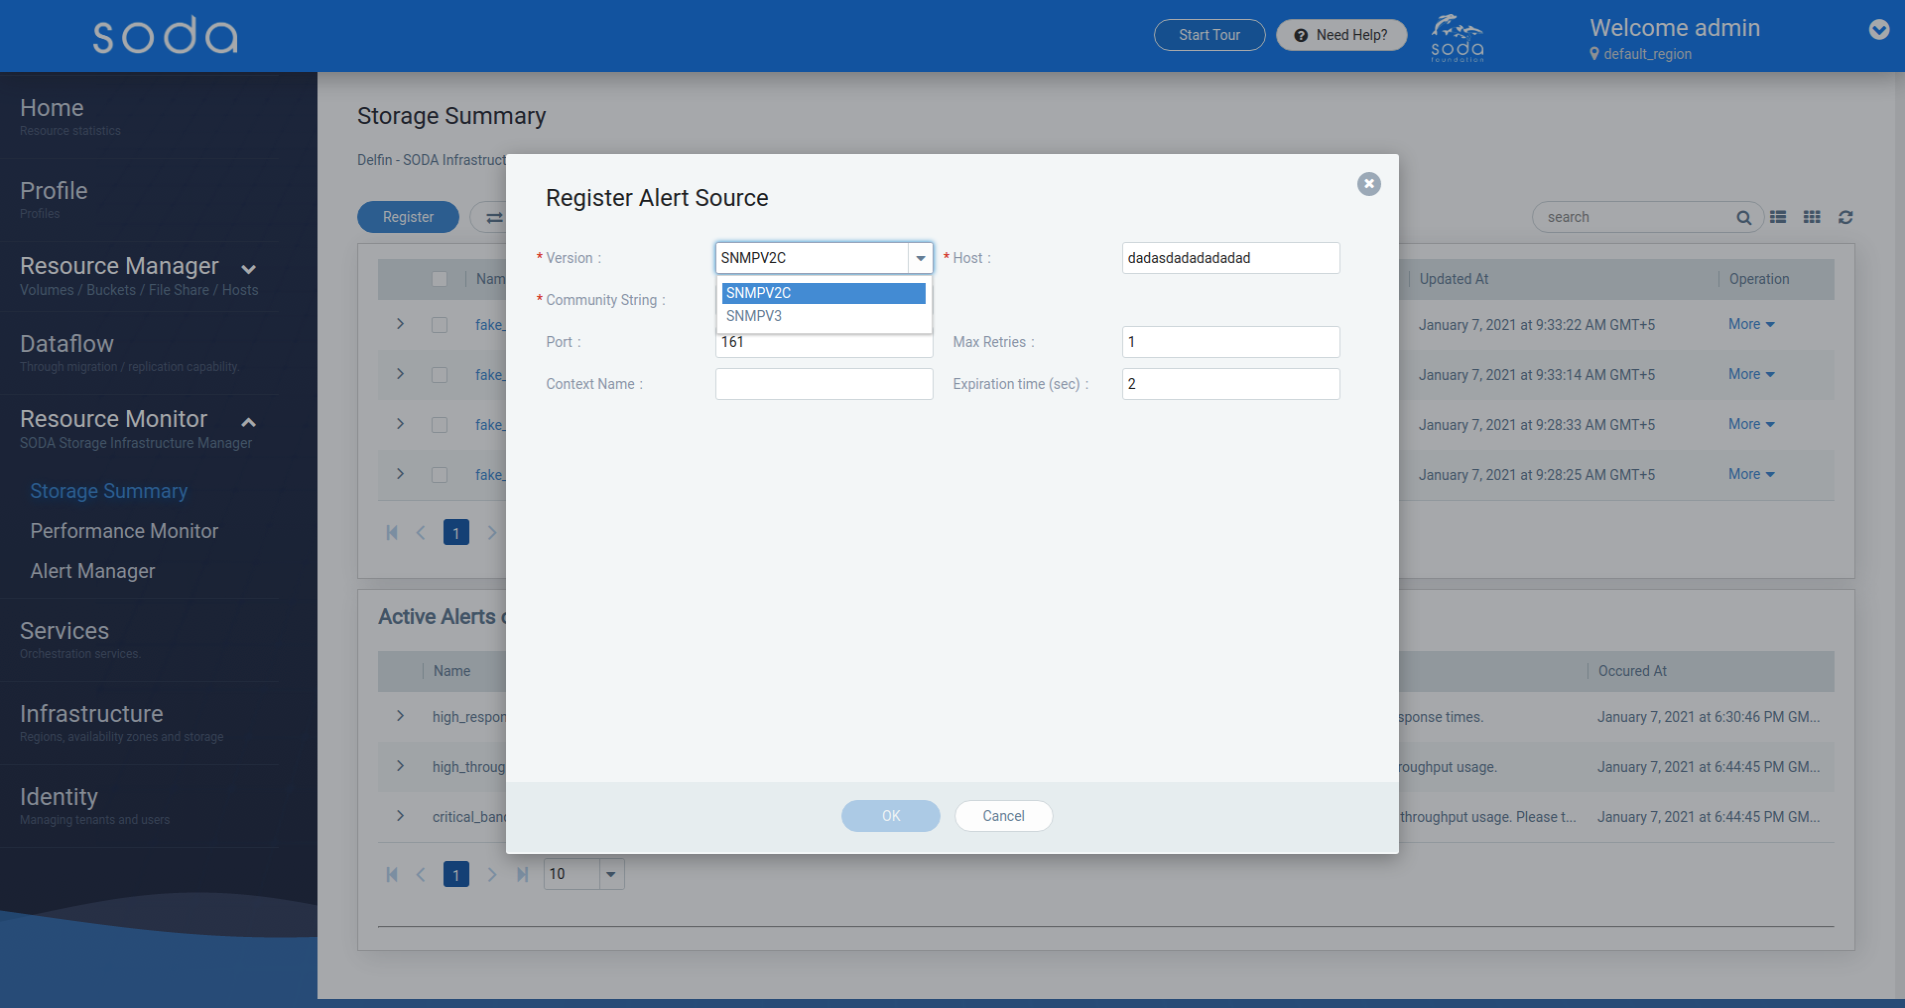
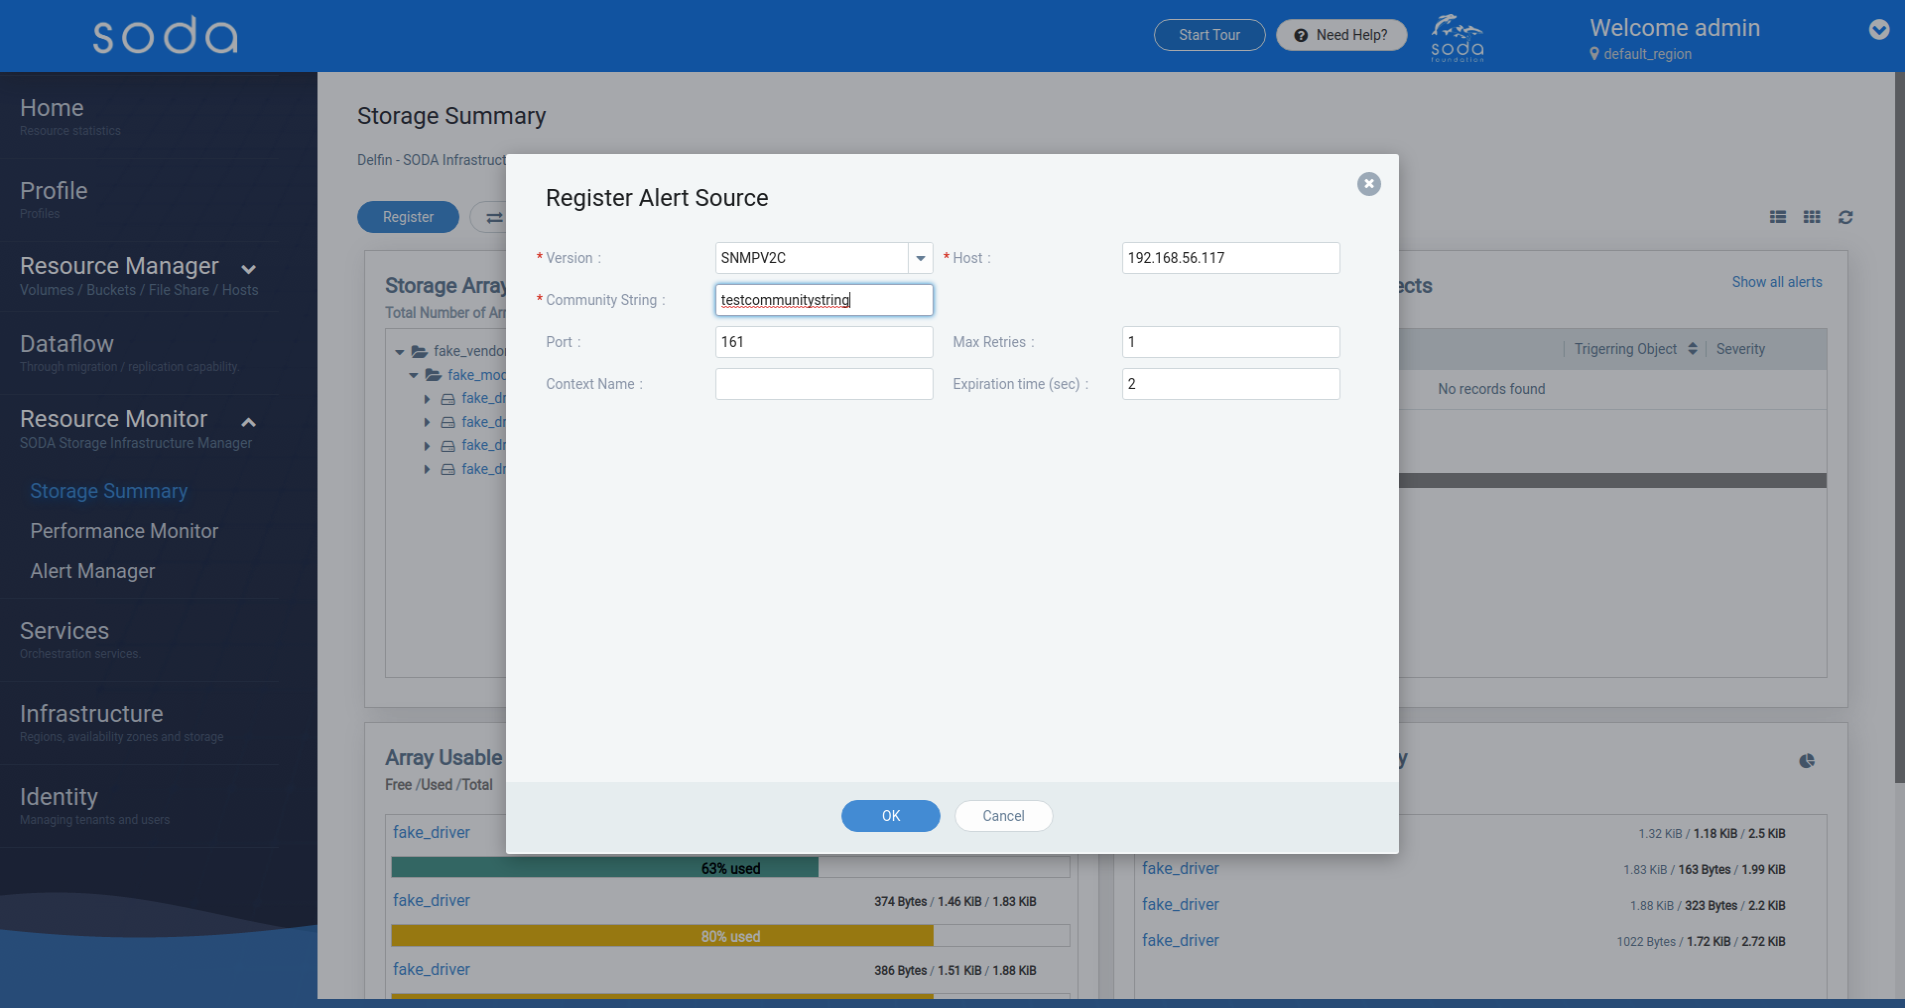
Added register alert source parameter description. Updated screenshots.

diff --git a/content/guides/user-guides/delfin/dashboard/_index.md b/content/guides/user-guides/delfin/dashboard/_index.md
@@ -233,10 +233,39 @@ The following actions are supported:
 
 ### Configure Alert Source 
 ##### [\[Back to top\]](#delfin-features)  
-**SNMPV2C**
+
+**SNMPV2C**  
+
+{{% notice tip %}}
+**The parameters that are needed for Registering a SNMPV2C alert source**  
+    - **Host**: IP address of the Host  
+    - **Commnity String**:   Community string. This should be filled if version is V2C  
+    - **Port**:  Port for connecting to alert source By default, set to 161  
+    - **Max retries**: Maximum number of retries while connecting to alert source By default, set to 1  
+    - **Context name**:  Context name of the alert source  
+    - **Expiration time (sec)**  : Expiration time (in sec) for one alert source connect request By default, set to 2  
+{{% /notice %}}
+
 ![Delfin User Guide - 19](delfin-user-guide-19.png)
 
 **SNMPV3**
+
+{{% notice tip %}}
+**The parameters that are needed for registering a SNMPV3 alert source**  
+    - **Host**: IP address of the Host  
+    - **Username**:   SNMPV3 username.  
+    - **Engine ID**: Engind ID of the device which will be sending the traps. Must be a hexadecimal octet string.  
+    - **Security Level**: Security level for the user. Supported Security levels are `noAuthnoPriv`, `authNoPriv`, `authPriv`.  
+    - **Auth Protocol**: Enabled if security level is `authNoPriv` or `authPriv`. Supported protocols are `HMACSHA`, `HMACMD5`, `HMCSHA2224`, `HMCSHA2256`, `HMCSHA2384`, `HMCSHA2512`.  
+    - **Auth Key**: The appropriate authentication key based on the selected auth protocol.  
+    - **Privacy Protocol**: Enabled if security level is `authPriv`. Supported protocols are `DES`, `AES`, `AES192`, `AES256`, `3DES`.  
+    - **Privacy Key**: The appropriate privacy key based on the selected privacy protocol.  
+    - **Port**:  Port for connecting to alert source By default, set to 161  
+    - **Max retries**: Maximum number of retries while connecting to alert source By default, set to 1  
+    - **Context name**:  Context name of the alert source  
+    - **Expiration time (sec)**  : Expiration time (in sec) for one alert source connect request By default, set to 2  
+{{% /notice %}}
+
 ![Delfin User Guide - 20](delfin-user-guide-20.png)
 ![Delfin User Guide - 21](delfin-user-guide-21.png)
 ![Delfin User Guide - 21](delfin-user-guide-21-1.png)
